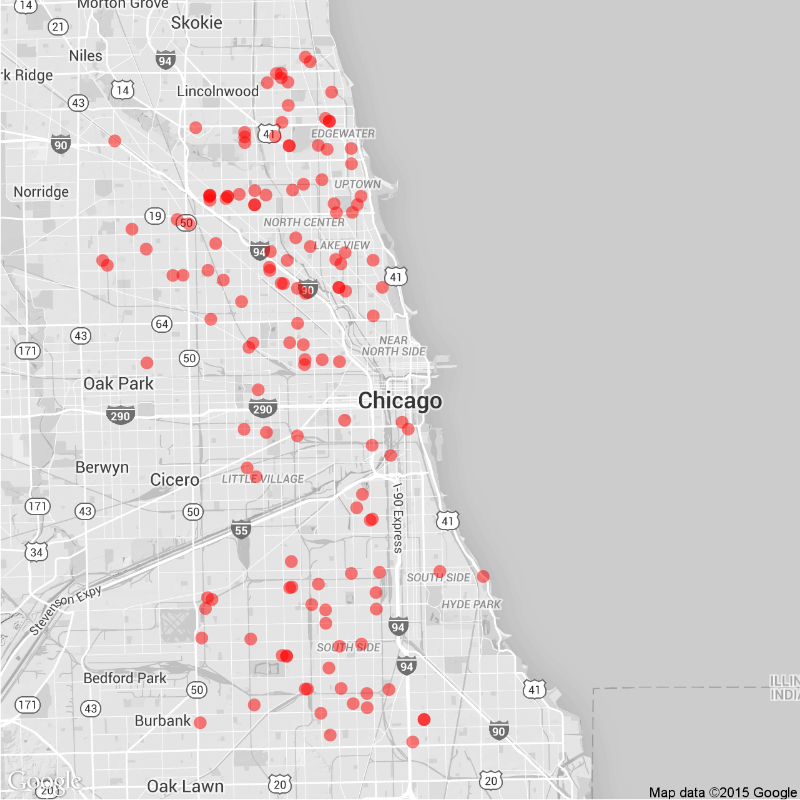
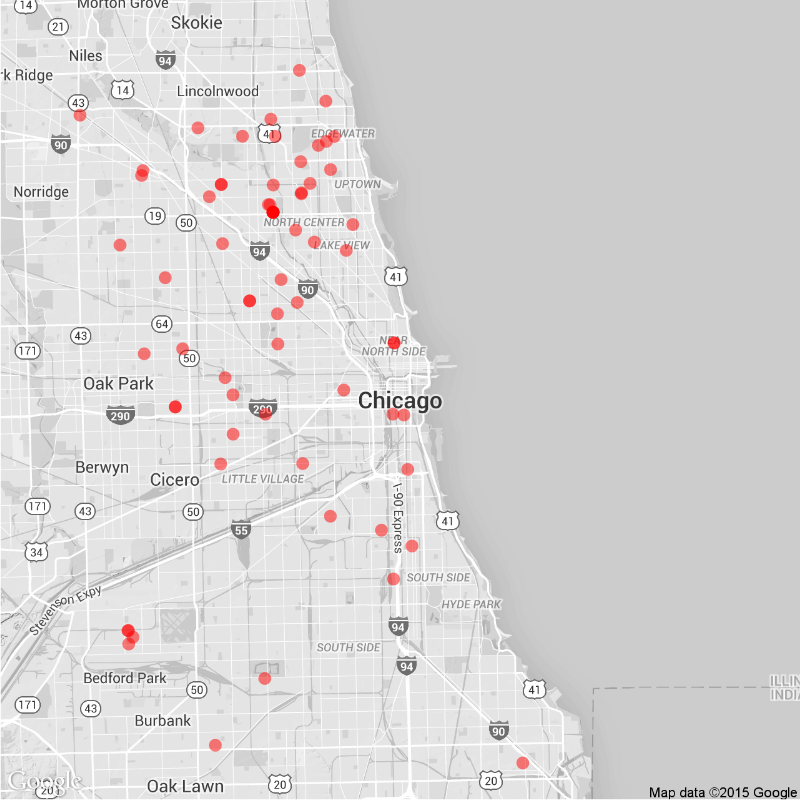
Daily Maps

diff --git a/daily.md b/daily.md
@@ -15,22 +15,22 @@ tags: Chicago NYC weekly daily rats
 
 ### Daily
 
-Yesterday (July 31), there were 142 calls to Chicago's 311 line about rats.
+Yesterday (August 01), there were 68 calls to Chicago's 311 line about rats.
 ![Chicago rat calls to 311 weekly map]({{ site.cityimages }}/daily/Chicago_Rat_Map_Daily.png)
 
 ### Weekly
-Between July 25 and July 31, there were 1090 calls to Chicago's 311 line about rats. The average number of weekly calls for this time of year is 896.
+Between July 26 and August 01, there were 1082 calls to Chicago's 311 line about rats. The average number of weekly calls for this time of year is 896.
 ![Chicago rat calls to 311 weekly map]({{ site.cityimages }}/daily/Chicago_Rat_Map_Weekly.png)
 ***
 # New York City <a id="nyc"><a>
 
 ### Daily
 
-Yesterday (July 31), there were 0 calls to New York City's 311 line about rats.
+Yesterday (August 01), there were 0 calls to New York City's 311 line about rats.
 ![NYC rat calls to 311 weekly map]({{ site.cityimages }}/daily/NYC_Rat_Map_Daily.png)
 
 ### Weekly
-Between July 25 and July 31, there were 0 calls to New York City's 311 line about rats. The average number of weekly calls for this time of year is 285.
+Between July 26 and August 01, there were 0 calls to New York City's 311 line about rats. The average number of weekly calls for this time of year is 285.
 ![NYC rat calls to 311 weekly map]({{ site.cityimages }}/daily/NYC_Rat_Map_Weekly.png)
 
 Each red dot represents one call about a rat seen in that location. The dots are transparent, so multiple calls from one location will be seen as a solid dot. The usual caveats apply: more calls do not necessarily mean that there are more rats in that location than other parts of the city. A cluster of dots could indicate that one resident is unusually vocal about rodents in his or her neighborhood. Also, more densely populated neighborhoods tend to make more calls to 311.
